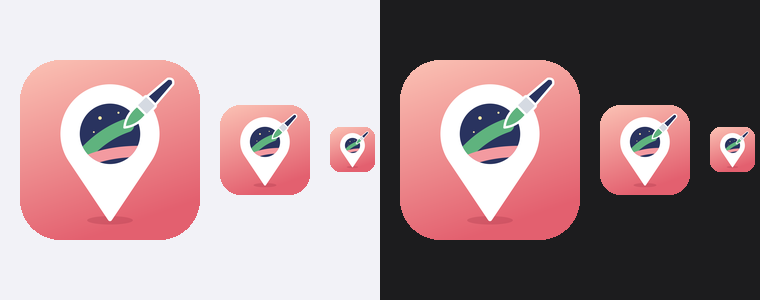
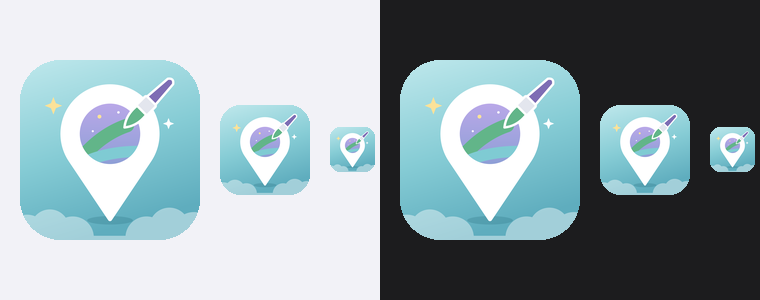
メインビジュアルに合わせてアイコンとアプリ内の配色を変更
Claude-Session: https://claude.ai/code/session_019oA26LEt3XaoosVr2h1XF1

Changed region(s): [[0.0, 0.18, 0.9987, 0.81]]

diff --git a/SuginamiArtWalk/App/SuginamiArtWalkApp.swift b/SuginamiArtWalk/App/SuginamiArtWalkApp.swift
@@ -17,14 +17,37 @@ struct SuginamiArtWalkApp: App {
     }
 }
 
+/// 配色はイベントのメインビジュアル（水色の空・アクア・緑・ラベンダー・淡い黄）に合わせている。
+/// 文字やボタンに使う色は白背景で読めるよう、元の色より少し濃くしている。
 enum Theme {
-    /// 桃園川にちなんだ桃色
-    static let accent = Color(red: 0.89, green: 0.42, blue: 0.47)
-    static let leaf = Color(red: 0.30, green: 0.58, blue: 0.42)
-    static let night = Color(red: 0.16, green: 0.20, blue: 0.38)
+    /// ボタンやリンクなどの基本色（アクアを濃くしたティール）
+    static let accent = Color(light: 0x347F8C, dark: 0x7FCBD3)
+    /// 地図上の徒歩ルート（リボンのアクア）
+    static let route = Color(light: 0x5FB3C2, dark: 0x7FCBD3)
+    /// 阿佐谷エリア（タイトル「阿佐谷」の緑）
+    static let asagaya = Color(light: 0x4E9E75, dark: 0x6CC093)
+    /// 高円寺エリア（タイトル「高円寺」のラベンダー）
+    static let koenji = Color(light: 0x7E6DB4, dark: 0xA897E0)
+    /// 星・太陽の淡い黄
+    static let star = Color(light: 0xE8B84A, dark: 0xFBE299)
+    /// カード背景の淡い空色
+    static let sky = Color(light: 0xE6F4F6, dark: 0x1F3236)
 
     static func color(for area: ArtSign.Area) -> Color {
-        area == .koenji ? night : leaf
+        area == .koenji ? koenji : asagaya
+    }
+}
+
+extension Color {
+    /// ライト／ダークで切り替わる色を16進数で指定する
+    init(light: UInt32, dark: UInt32) {
+        func ui(_ hex: UInt32) -> UIColor {
+            UIColor(red: CGFloat((hex >> 16) & 0xFF) / 255,
+                    green: CGFloat((hex >> 8) & 0xFF) / 255,
+                    blue: CGFloat(hex & 0xFF) / 255,
+                    alpha: 1)
+        }
+        self.init(uiColor: UIColor { $0.userInterfaceStyle == .dark ? ui(dark) : ui(light) })
     }
 }
 

diff --git a/SuginamiArtWalk/Views/MapScreen.swift b/SuginamiArtWalk/Views/MapScreen.swift
@@ -24,11 +24,11 @@ struct MapScreen: View {
                     ForEach(route.legs) { leg in
                         if let line = leg.polyline {
                             MapPolyline(line)
-                                .stroke(Theme.accent.opacity(0.75),
+                                .stroke(Theme.route.opacity(0.85),
                                         style: StrokeStyle(lineWidth: 5, lineCap: .round, lineJoin: .round))
                         } else {
                             MapPolyline(coordinates: [leg.from.coordinate, leg.to.coordinate])
-                                .stroke(Theme.accent.opacity(0.5),
+                                .stroke(Theme.route.opacity(0.6),
                                         style: StrokeStyle(lineWidth: 3, dash: [6, 6]))
                         }
                     }
@@ -103,7 +103,7 @@ struct MapScreen: View {
         if let sign = location.nearbySign, !progress.isVisited(sign) {
             Button { selected = sign } label: {
                 HStack {
-                    Image(systemName: "sparkles")
+                    Image(systemName: "sparkles").foregroundStyle(Theme.star)
                     VStack(alignment: .leading) {
                         Text("近くにアートサインがあります").font(.caption).foregroundStyle(.secondary)
                         Text(sign.title).font(.headline)

diff --git a/SuginamiArtWalk/Views/SignDetailView.swift b/SuginamiArtWalk/Views/SignDetailView.swift
@@ -98,7 +98,7 @@ struct SignDetailView: View {
                 .foregroundStyle(.secondary)
         }
         .padding(16)
-        .background(Color(.secondarySystemBackground), in: RoundedRectangle(cornerRadius: 16))
+        .background(Theme.sky, in: RoundedRectangle(cornerRadius: 16))
     }
 
     private var conceptSection: some View {
@@ -164,7 +164,7 @@ struct CompletionView: View {
             Spacer()
             Image(systemName: "star.circle.fill")
                 .font(.system(size: 96))
-                .foregroundStyle(Theme.accent)
+                .foregroundStyle(Theme.star)
                 .symbolEffect(.bounce, options: .repeat(2), value: bounce)
                 .onAppear { bounce = true }
             Text("7か所コンプリート！")
